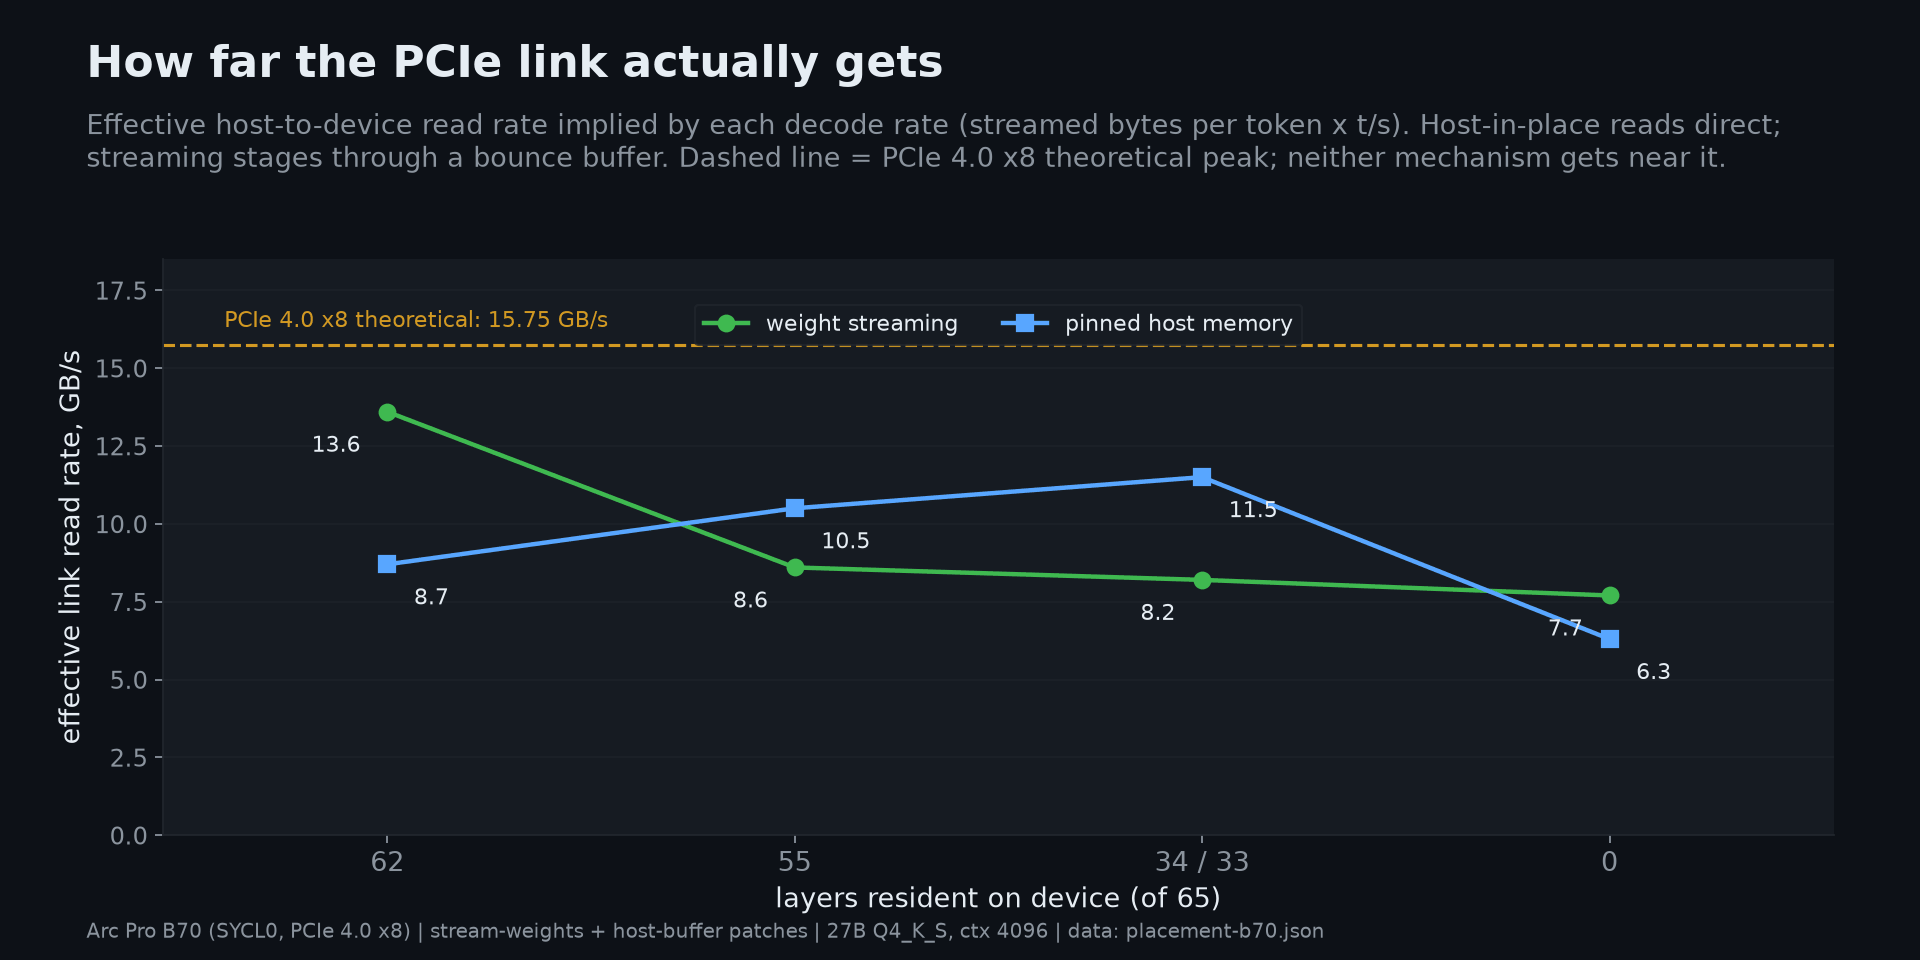
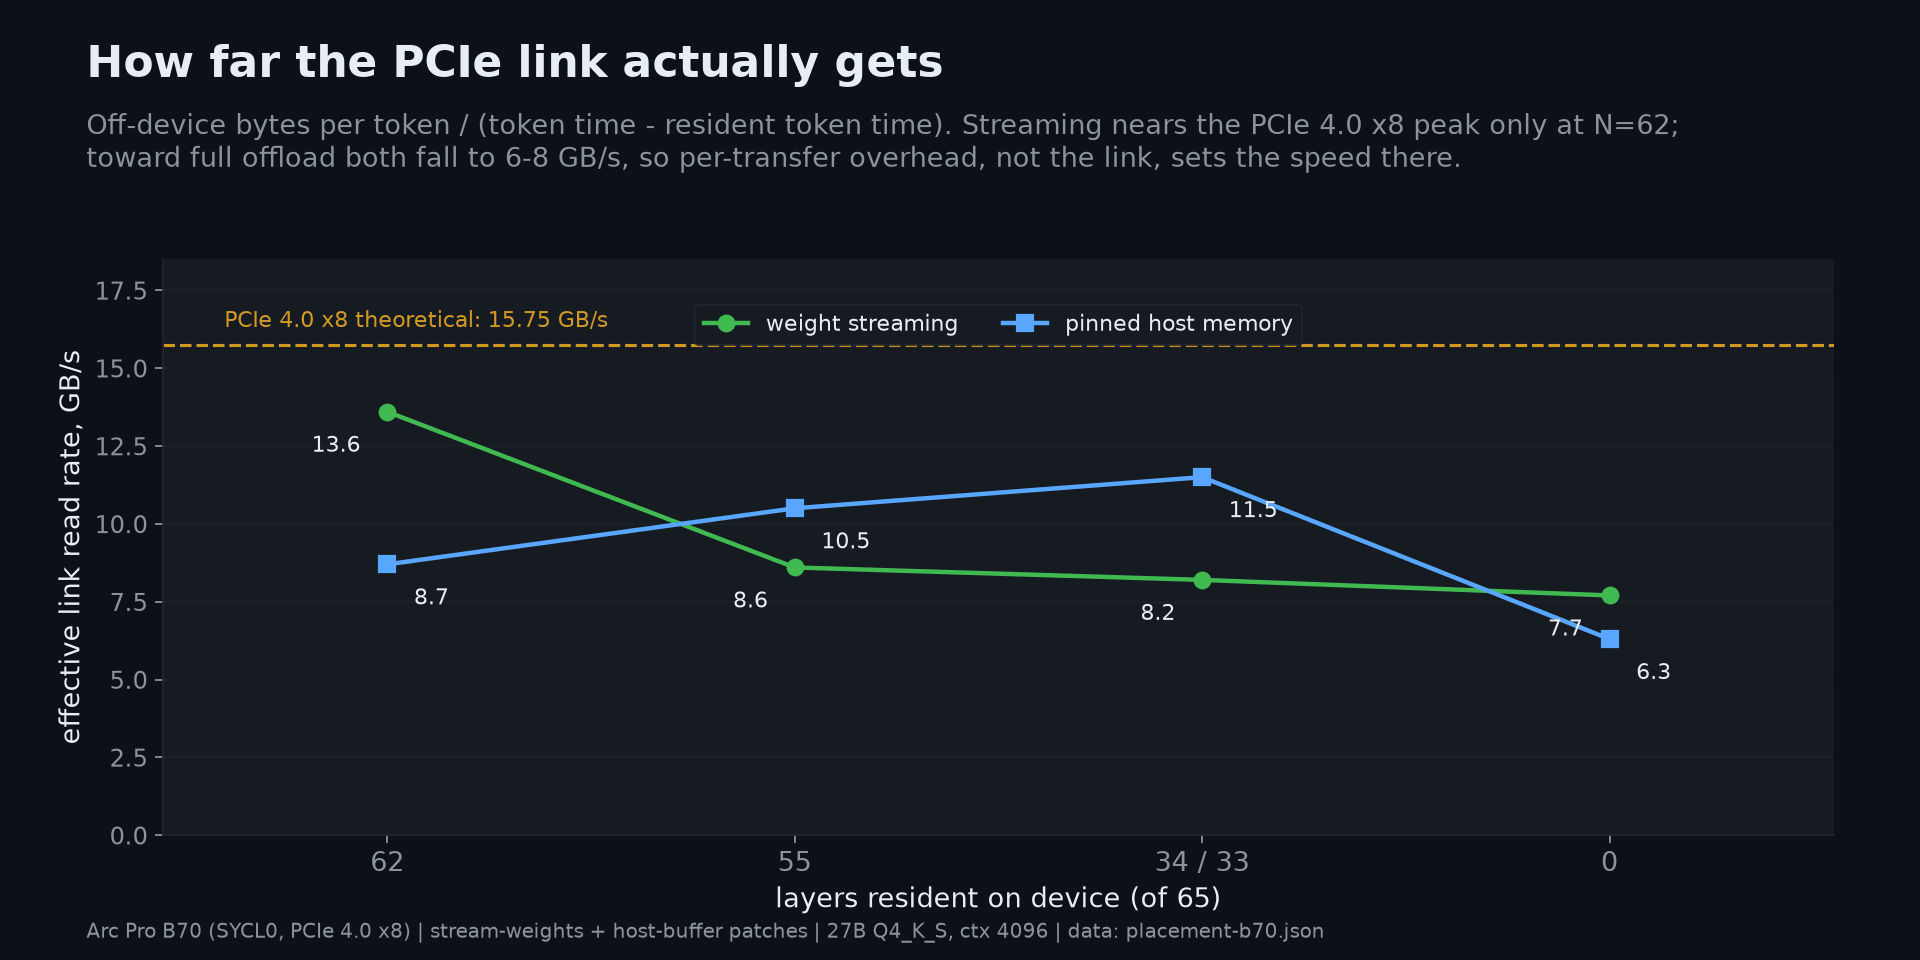
docs(perf): placement-b70 — findings (wins/deficiencies) up front; fig11 subtitle matches the data

Changed region(s): [[0.0312, 0.125, 0.9375, 0.1875]]

diff --git a/docs/perf/sycl-elastic/make_figs_placement_b70.py b/docs/perf/sycl-elastic/make_figs_placement_b70.py
@@ -80,10 +80,10 @@ def fig10():
 def fig11():
     fig = newfig(h=6.0)
     header(fig, "How far the PCIe link actually gets",
-           "Effective host-to-device read rate implied by each decode rate "
-           "(streamed bytes per token x t/s). Host-in-place reads direct;\n"
-           "streaming stages through a bounce buffer. Dashed line = PCIe 4.0 "
-           "x8 theoretical peak; neither mechanism gets near it.")
+           "Off-device bytes per token / (token time - resident token time). "
+           "Streaming nears the PCIe 4.0 x8 peak only at N=62;\n"
+           "toward full offload both fall to 6-8 GB/s, so per-transfer "
+           "overhead, not the link, sets the speed there.")
     ax = fig.add_axes([0.085, 0.13, 0.87, 0.60])
     style_ax(ax)
     x = np.arange(len(NS))

diff --git a/docs/perf/sycl-elastic/placement-b70.md b/docs/perf/sycl-elastic/placement-b70.md
@@ -6,6 +6,44 @@ oneAPI 2026.0) against `feat/sycl-llama-elastic-stack` (`82aa11d`) with
 (`scripts/build-llama-stream.sh`, markers verified). Raw data:
 `experiments/2026-10-05-placement-b70/` (not committed).
 
+## Findings
+
+Measured on one Arc Pro B70 (SYCL0) on a host whose GPU links run at **PCIe 4.0 x8 (~15.75 GB/s)**. All numbers are medians of 3.
+
+### What works (wins)
+1. **The fixed patches hold up on a discrete card.**
+   - 27B decode speeds: `--elastic-vram 12` 8.33 t/s (62/65 layers on device), `--elastic-vram 0` 0.55 t/s, and `auto` 17.49 t/s ("model fits, streaming disabled", same speed as resident).
+   - Streamed output is byte-identical to unpatched upstream llama.cpp.
+   - The streamed child holds 1 model fd and no `LD_PRELOAD`, and it dies with cascadia.
+2. **Streaming saturates the link when little is streamed.** At N=62 it moves ~13.6 GB/s, about 86% of the x8 Gen4 ceiling. The deficit law at 13 GB/s predicts 8.05 t/s; we measured 8.25.
+3. **Streaming wins at the parking end.** At N=0 it decodes at 0.54 t/s vs 0.45 for host-in-place, and it has the smallest footprint: a 3.05 GiB peak vs 16.15 GiB resident (−81%).
+4. **Pinned host memory read in place (patch 0003) wins mid-range.** It is +18% at N=55 and +33% at N=34/33, with fused ops and graphs still on. The cascadia path (`--llama-host-layers`) works: 6.25 t/s, output identical to resident.
+5. **Co-tenancy is stable.** In every section-C arm, three 27B instances loaded and generated together with no load failures and no xe resets. `auto` reached 9.4 t/s combined.
+
+### What doesn't (deficiencies)
+1. **Full streaming uses only about half the link.** At N=0 streaming reaches ~7.7 GB/s and host-in-place ~6.3 GB/s, well under the ceiling. Something other than the link dominates there: the synchronous per-tensor copy chain (file → staging → device) for streaming, and the in-place reads for host placement. Async prefetch is the obvious next fix.
+2. **Host-in-place loses with only a few layers off-device.** At N=62 it is −23% vs streaming (6.36 vs 8.25), reading at only ~8.7 GB/s. It is not a drop-in replacement across the range.
+3. **Driver oversubscription beats every elastic arm for 3 instances.** Plain loading with no `--elastic` reached 11.6 t/s combined. That compares with 9.4 for `auto`, 4.2 for explicit budgets (12/12/0), and 2.8 / 1.6 for the two host-placement arms. The trade-off is no residency guarantee: the driver decides what gets moved to host memory.
+4. **Budgets don't compose under contention.** Each of the two 62/65 instances in the 12/12/0 arm fell from 8.33 t/s alone to 1.88 t/s (−77%), because all three instances share one link.
+5. **`auto` splits first-come, first-served.** Instance 2 got 63/65 layers (5.40 t/s); instance 3 got 0/65 (0.50 t/s) and warned it lacked headroom (1913 MiB free vs ~4267 MiB needed). Nothing rebalances after load.
+6. **Tate's host-placement predictions (~14 t/s at N=62, ~3 t/s at N=0) can't be reached here.** They assume a ~50 GB/s Gen5 x16 link. A Gen5 x16 host is untested and could change the ranking.
+
+![fig10](fig10_placement_b70.png)
+![fig12](fig12_cotenancy_b70.png)
+
+### Caveats
+- The study ran on SYCL0 instead of SYCL1, whose absolute t/s is ~9% lower than the 0f card; all comparisons are within one card.
+- The stack's fused resident path flips one greedy near-tie (one prompt, char 109). It is not a streaming bug: with fusion off, resident output equals upstream and streamed output.
+- vram_mm can't show host spill. Oversubscription is inferred from capacity: three 27B models don't fit in 31.89 GiB.
+
+### Recommendation
+- Keep streaming + `auto` as `--elastic` on discrete cards.
+- Next work, in order:
+  1. Async prefetch, for the N=0 gap.
+  2. A fairer `auto` split, and promote/demote after load.
+  3. Retest host placement on a Gen5 x16 host.
+- Document driver oversubscription as the throughput-first alternative when residency guarantees don't matter.
+
 ## Deviation from the recipe
 
 The recipe's card (SYCL1 / PCI 0000:0f:00.0) was occupied by an unrelated
